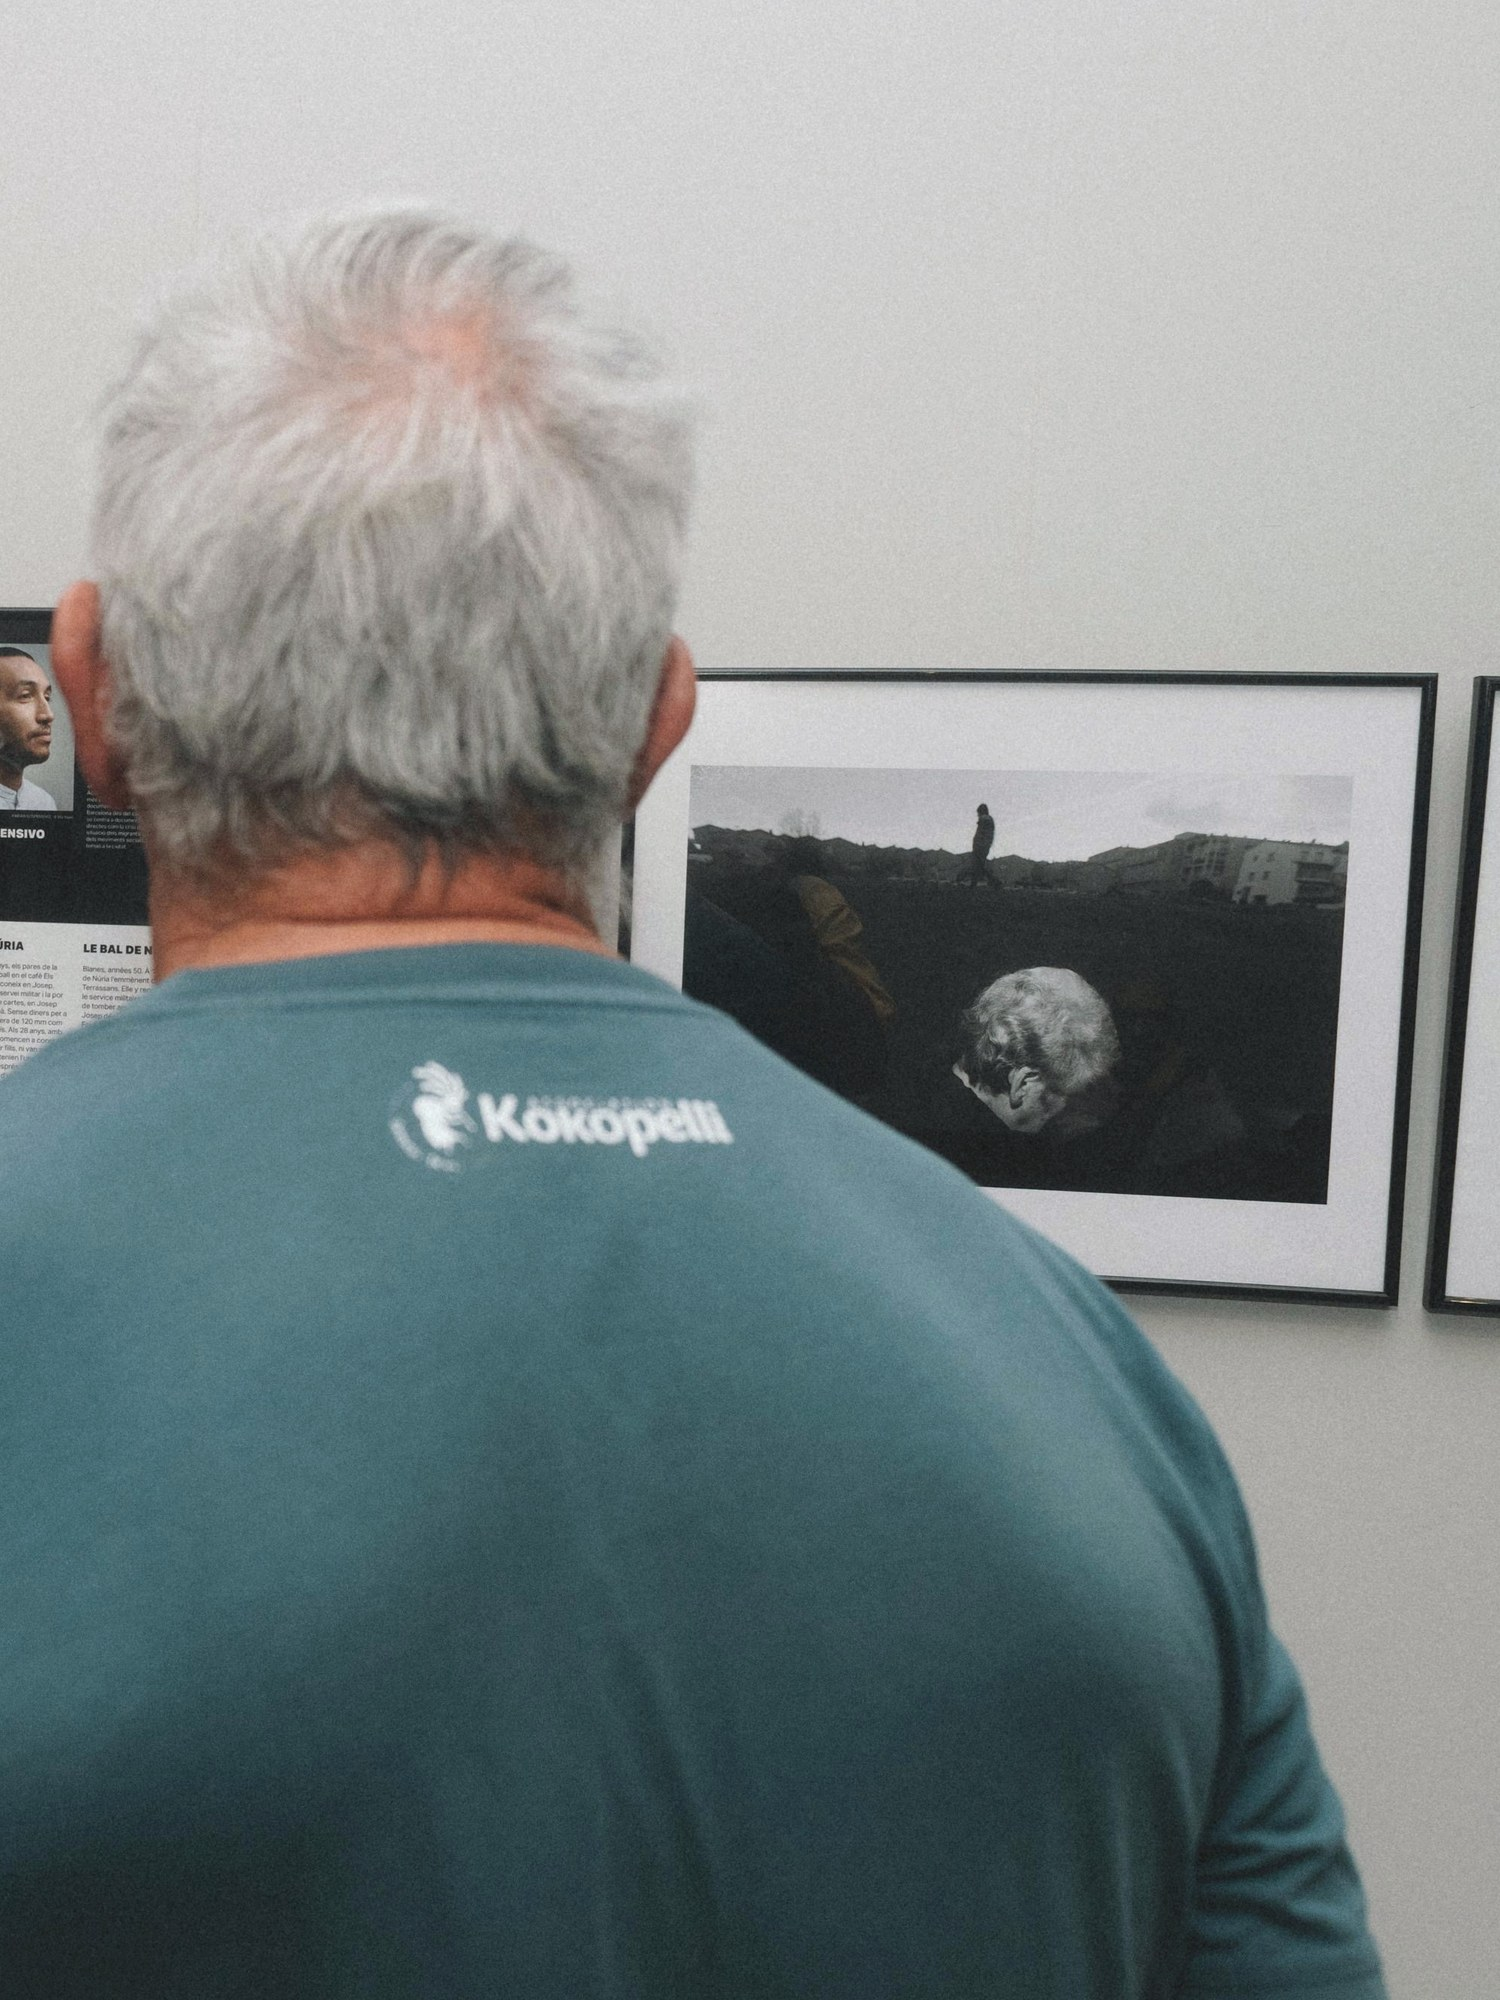
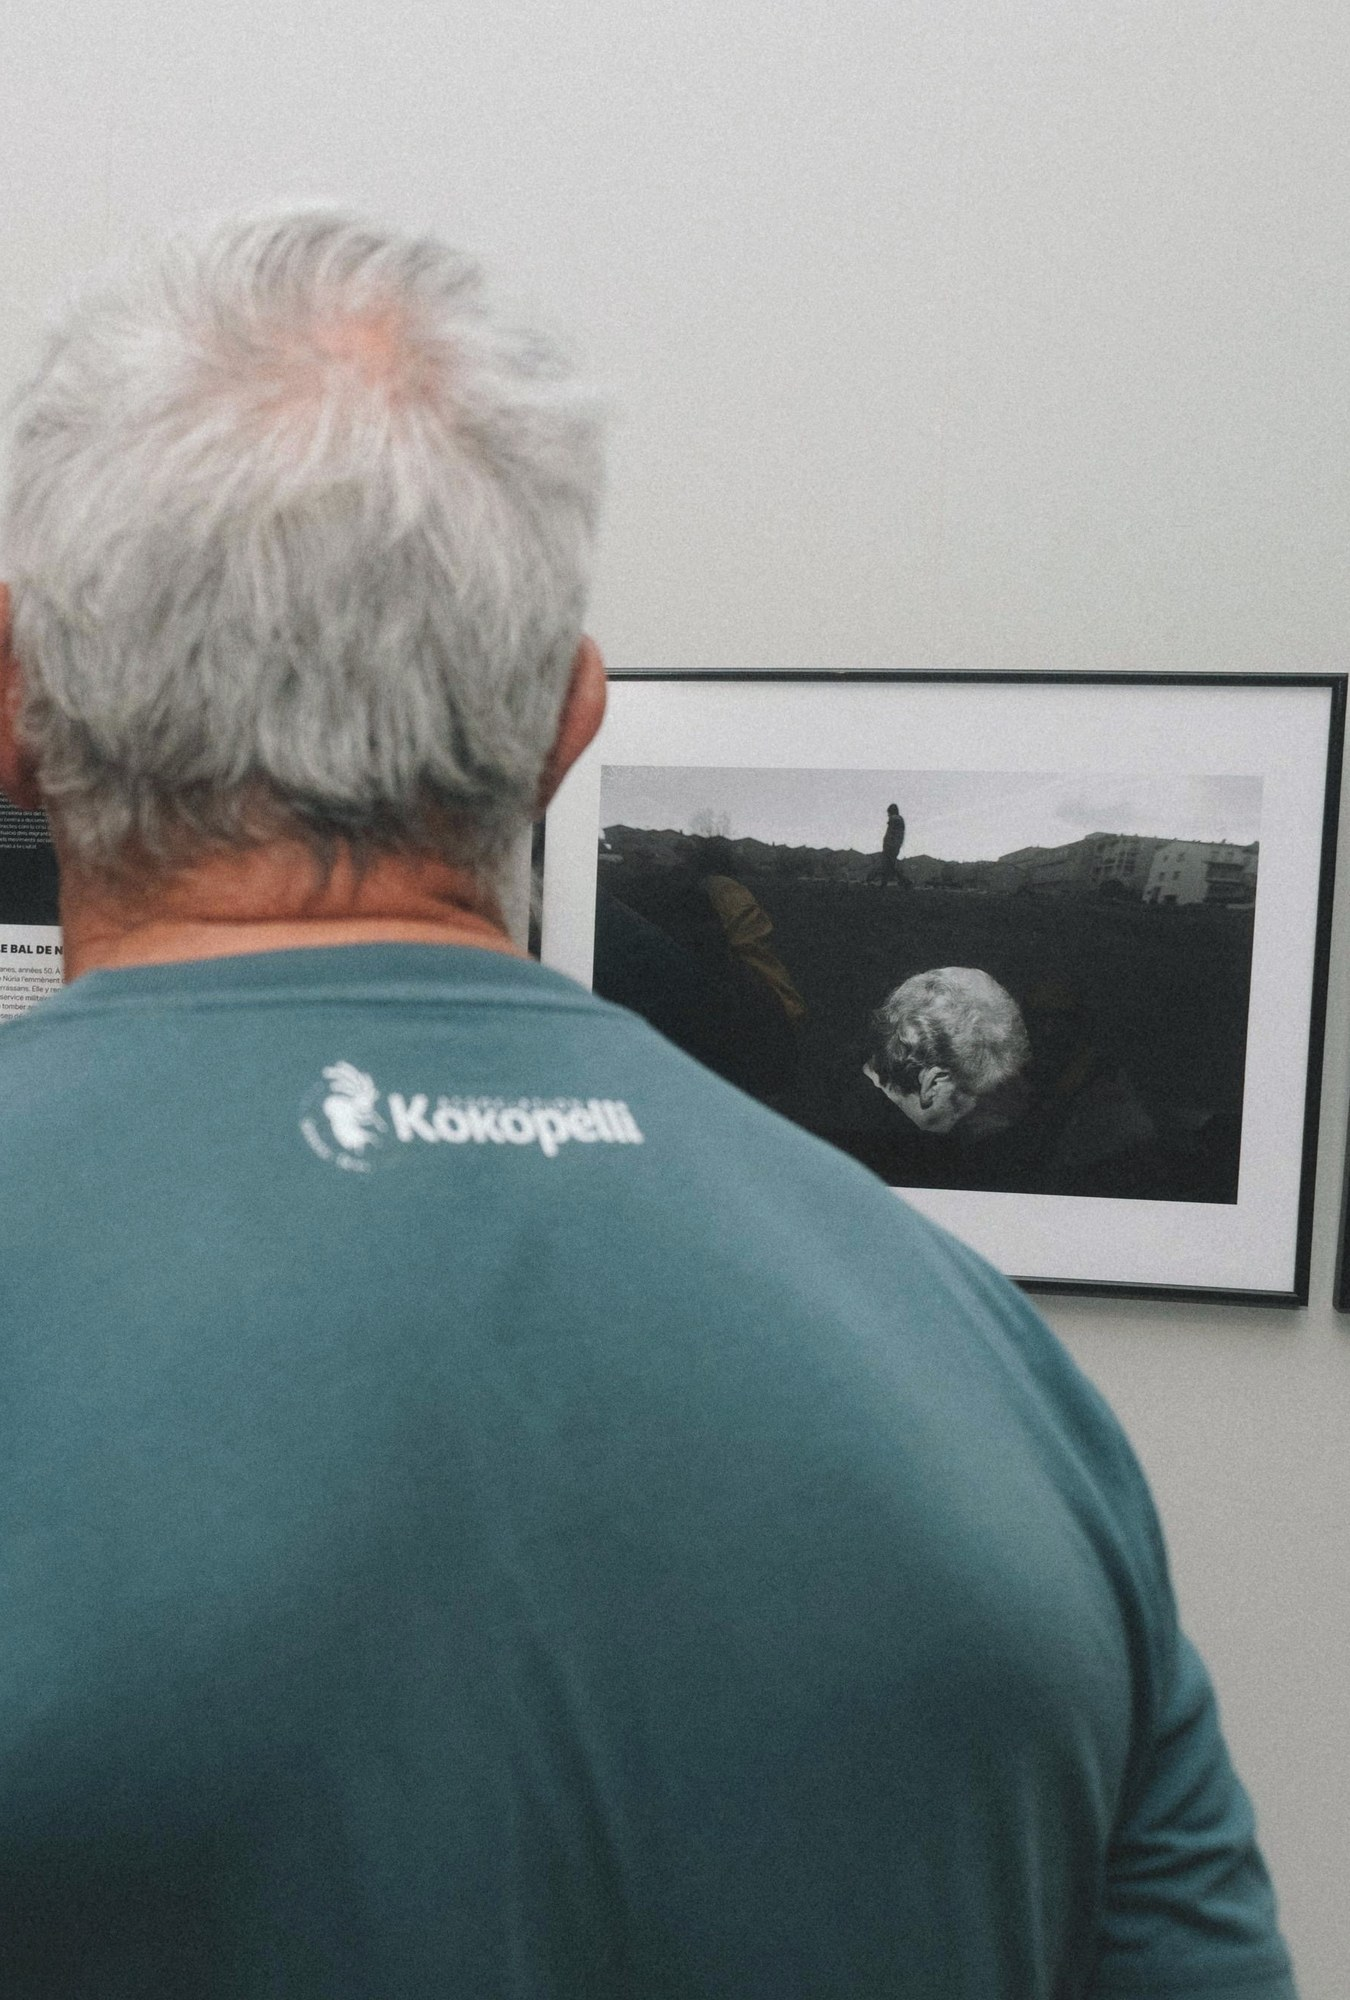
recorta la foto donde entraba medio panel por el borde

diff --git a/src/data/galeria.ts b/src/data/galeria.ts
@@ -41,7 +41,7 @@ export const series: Serie[] = [
       { src: '/fotos/ball-de-nuria-expo-01.jpg', w: 2000, h: 1333, expo: true },
       { src: '/fotos/ball-de-nuria-expo-02.jpg', w: 2000, h: 1333, expo: true },
       { src: '/fotos/ball-de-nuria-expo-03.jpg', w: 1500, h: 2000, expo: true },
-      { src: '/fotos/ball-de-nuria-expo-04.jpg', w: 1500, h: 2000, expo: true },
+      { src: '/fotos/ball-de-nuria-expo-04.jpg', w: 1350, h: 2000, expo: true },
       { src: '/fotos/ball-de-nuria-expo-05.jpg', w: 2000, h: 1333, expo: true },
     ],
   },
